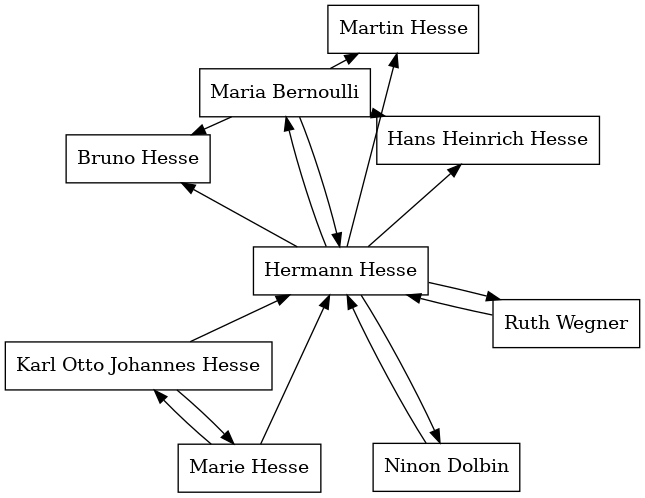
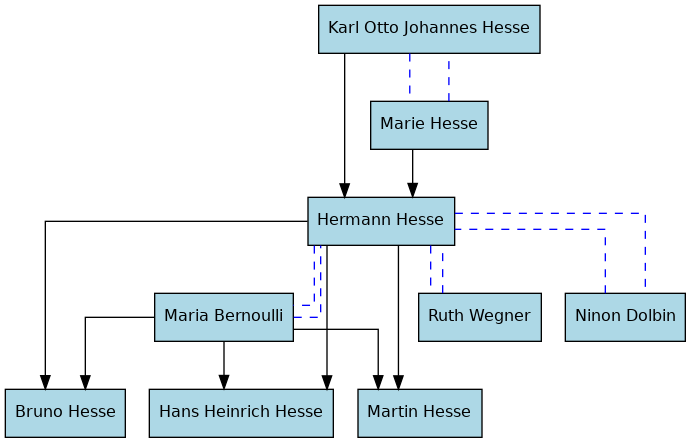
Added docker files, fixed

diff --git a/familycards/draw_tree.py b/familycards/draw_tree.py
@@ -1,73 +1,53 @@
 import pygraphviz as pgv
 from .models import FamilyMember
 
+def make_family_tree():
+    graph = pgv.AGraph(
+        strict=False,
+        directed=True,
+        rankdir='TB',
+        splines='ortho',
+        bgcolor='white'
+    )
 
-def get_list_of_parents(family_member, FamilyMember, parents={}):
-    print(family_member, family_member.parents)
-    if len(family_member.parents) != [""]:
-        for parent in family_member.parents:
-            p = None
-            if FamilyMember.objects.filter(full_name=parent):
-                p = FamilyMember.objects.filter(full_name=parent)[0]
-                parents[p] = {}
-                get_list_of_parents(p, FamilyMember, parents[p])
-        if parents:
-            return parents
+    graph.node_attr.update(
+        shape='rectangle',
+        style='filled',
+        fillcolor='lightblue',
+        fontname='Helvetica',
+        fontsize='12.0',
+        margin='0.1'
+    )
 
-    else:
-        return parents
-    print(parents)
-    return parents
+    graph.edge_attr.update(
+        color='black',
+        penwidth='1.0'
+    )
 
+    for member in FamilyMember.objects.all():
+        graph.add_node(member.full_name)
 
-def get_parents_dict(bond):
-    bonds = {}
-    relatives = []
-    for family_member in FamilyMember.objects.all():
-        if bond == "parents":
-            relatives = family_member.get_list_of_parents()
-        elif bond == "partners":
-            relatives = family_member.get_list_of_partners()
-        for relative in relatives:
-            if relative not in bonds.keys():
-                bonds[relative] = [family_member]
-            else:
-                bonds[relative].append(family_member)
-    return bonds
+    for member in FamilyMember.objects.all():
+        for parent in member.parents:
+            if parent and FamilyMember.objects.filter(full_name=parent).exists():
+                # Draw edge from parent to child
+                graph.add_edge(parent, member.full_name)
 
+    # Add partner relationships (using different edge style)
+    for member in FamilyMember.objects.all():
+        for partner in member.partners:
+            if partner and FamilyMember.objects.filter(full_name=partner).exists():
+                # Use undirected edges for partners with a different style
+                graph.add_edge(member.full_name, partner, dir='none', color='blue', style='dashed')
 
-def make_graph(parents, partners):
-    a = pgv.AGraph(directed=True, strict=True)
-    a.node_attr["shape"] = "box"
-    a.edge_attr.update(len="2.0")
-    print("Creating parents graph:")
-    for parent in parents:
-        if parent is not None:
-            for child in parents[parent]:
-                if child is not None:
-                    print(f"Parent: {parent}, Child: {child}")
-                    a.add_edge(f"{parent}", f"{child}")
-
-    print("Creating partners graph:")
-    for partner in partners:
-        if partner is not None:
-            for other_partner in partners[partner]:
-                if other_partner is not None:
-                    print(f"Partner: {partner}, Another Partner: {other_partner}")
-                    a.add_edge(f"{partner}", f"{other_partner}", directed=False)
-    if a is None:
-        print("Nothing to add")
-    else:
-        a.layout()
-        a.draw("static/family_graph.png")
-        print("The family_graph.png is created")
+    graph.layout(prog='dot')  # 'dot' layout works well for hierarchical structures
+    graph.draw("static/family_graph.png")
+    return "family_graph.png"
 
 
 def generate_tree():
-    if len(FamilyMember.objects.all()) > 0:
-        parents_dict = get_parents_dict("parents")
-        partners_dict = get_parents_dict("partners")
-        make_graph(parents_dict, partners_dict)
+    if FamilyMember.objects.exists():
+        return make_family_tree()
     else:
-        print("Nothing to add")
-    return "family_graph.png"
+        print("No family members to create tree")
+        return None

diff --git a/familycards/views.py b/familycards/views.py
@@ -3,6 +3,7 @@ from django.http import HttpResponse
 from django.shortcuts import get_object_or_404, render, redirect
 from django.views.generic import TemplateView
 from django.template.defaultfilters import slugify
+from django.conf import settings
 
 import os
 import csv
@@ -13,14 +14,21 @@ from .models import FamilyMember
 from .forms import UploadFileForm, UploadOnePerson
 from .draw_tree import generate_tree
 
-# from .media import *
+import logging
 
 
 def handle_uploaded_file(file):
-    """The funstion deals with uploaded files"""
-    with open(file.name, "wb+") as destination:
+    """The function deals with uploaded files"""
+    # Create the media directory if it doesn't exist
+    os.makedirs(settings.MEDIA_ROOT, exist_ok=True)
+    file_path = os.path.join(settings.MEDIA_ROOT, file.name)
+    logging.info("Got the file_path")
+
+    with open(file_path, "wb+") as destination:
         for chunk in file.chunks():
             destination.write(chunk)
+
+    return os.path.join('media', file.name)
 
 
 def handle_date(date):
@@ -61,7 +69,8 @@ class MembersView(TemplateView):
         if file.is_valid():
             uploaded_file = request.FILES["file"]
             handle_uploaded_file(uploaded_file)
-            with open(uploaded_file.name) as uploaded_file:
+            print(f"{uploaded_file.name=}")
+            with open(os.path.join(settings.MEDIA_ROOT, uploaded_file.name)) as uploaded_file:
                 reader = csv.reader(uploaded_file)
                 for row in reader:
                     if row[0] == "first_name":
@@ -242,12 +251,6 @@ def export_csv(request, filename):
 def about(request):
     context = {}
     return render(request, "familycards/about.html", context)
-
-
-# def view_category(request, slug):
-#    category = get_object_or_404(Category, slug=slug)
-#    context = {'category': category, 'posts': Blog.objects.filter(category=category)[:5]}
-#    return render(request, 'imnebel/view_category.html', context)
 
 # class TreeView(TemplateView):
 def view_tree(request):

diff --git a/familycards/urls.py b/familycards/urls.py
@@ -17,4 +17,4 @@ urlpatterns = [
     path("member/<slug>/delete", views.delete_member, name="delete_member"),
     path("tree", views.view_tree, name="view_tree"),
     path("export_csv/data/<filename>", views.export_csv, name="export_csv"),
-] + static(settings.STATIC_URL, document_root=settings.STATIC_ROOT)
+] + static(settings.MEDIA_URL, document_root=settings.MEDIA_ROOT)

diff --git a/famarch/settings.py b/famarch/settings.py
@@ -122,5 +122,5 @@ STATIC_ROOT = os.path.join(BASE_DIR, "staticfiles")
 
 # Uploaded file
 
-MEDIA_URL = "familycards/media/"
-MEDIA_ROOT = os.path.join(BASE_DIR, MEDIA_URL)
+MEDIA_URL = '/familycards/media/'
+MEDIA_ROOT = os.path.join(BASE_DIR, 'familycards', 'media')
